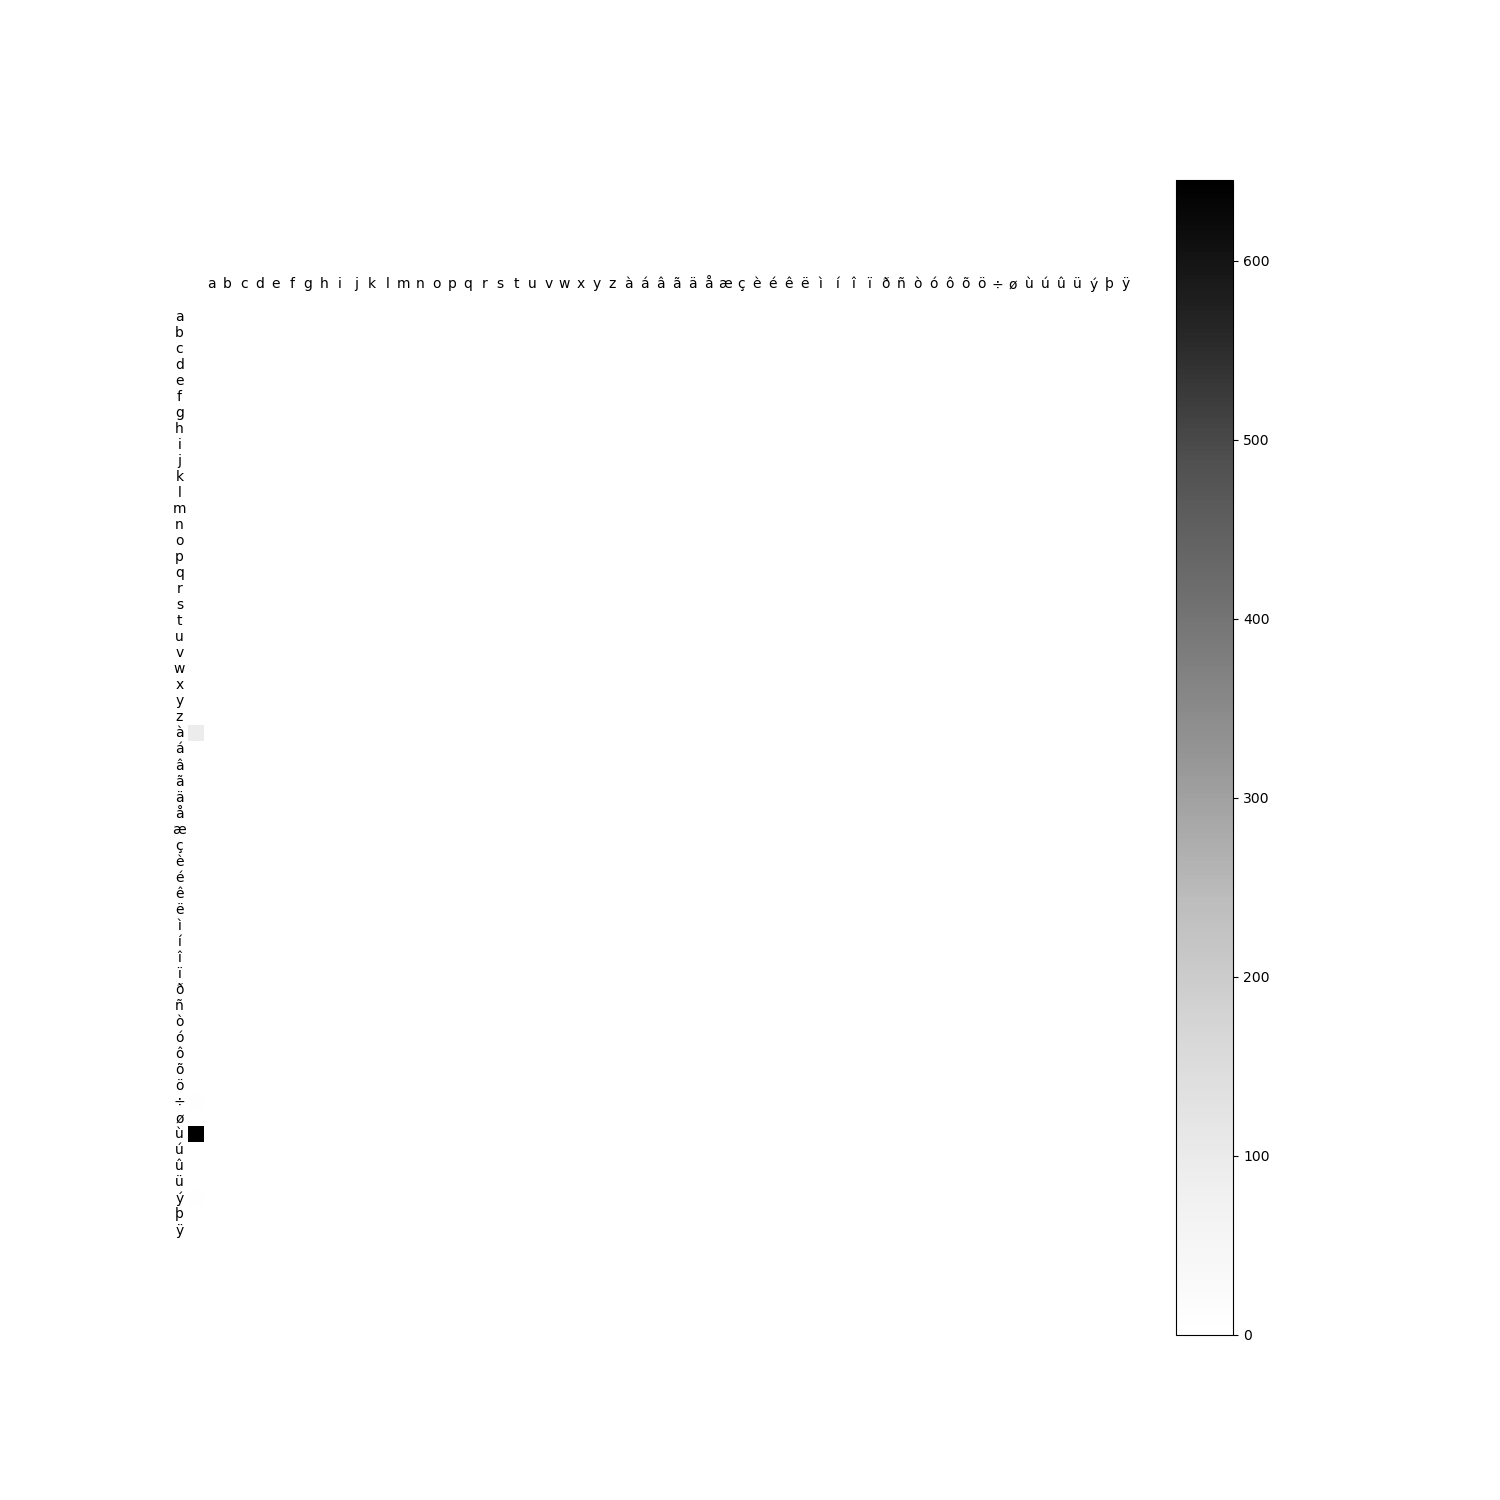
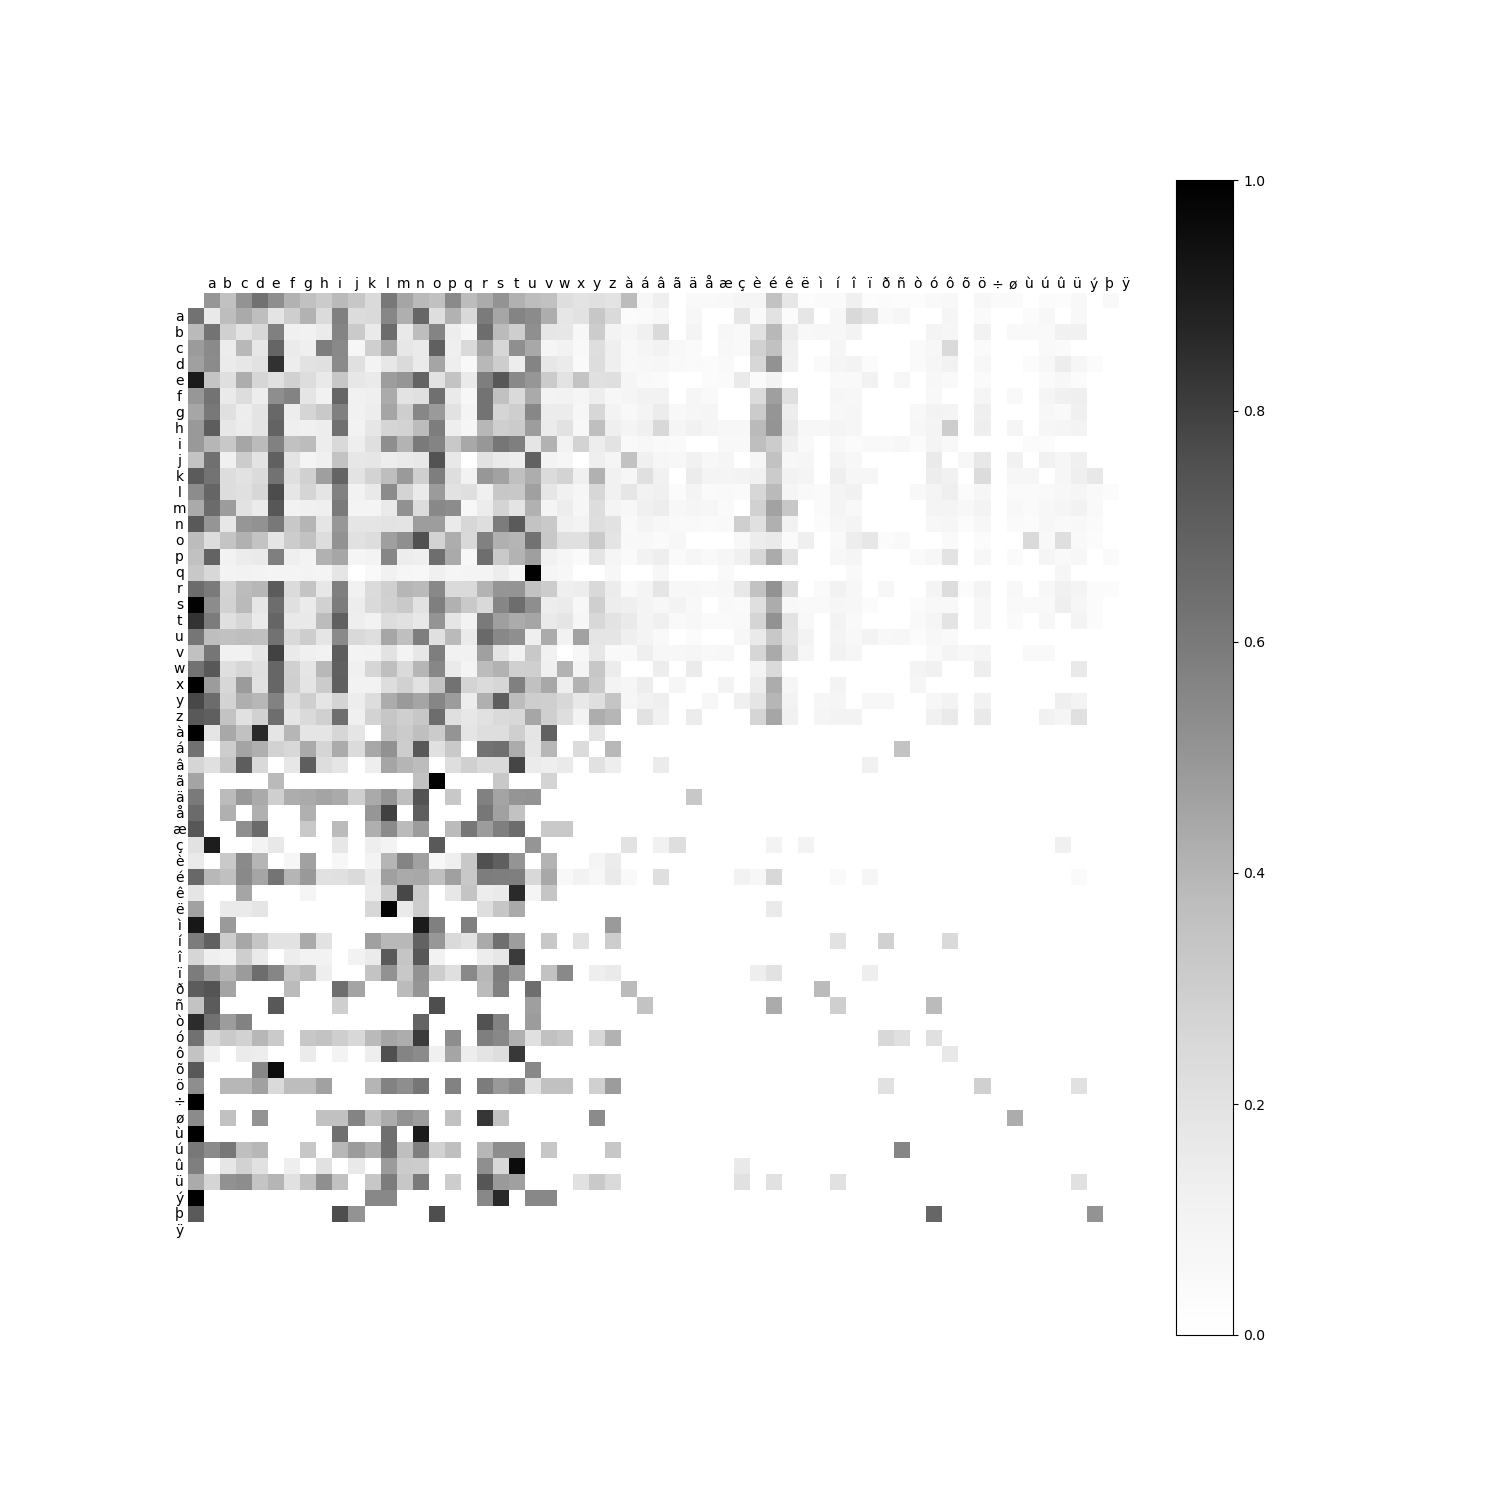
t

diff --git a/visualization/matrix_visualization.py b/visualization/matrix_visualization.py
@@ -21,7 +21,8 @@ cols_to_keep = np.array([32] + list(range(97, 123)) + list(range(224, 255)))
 
 # Use advanced indexing to keep the desired portion
 submatrix = matrix[np.ix_(rows_to_keep,cols_to_keep )] .copy()
-submatrix=(submatrix.astype('float'))
+submatrix=(submatrix.astype('float'))**0.25
+submatrix[submatrix>1]=1
 """colors = np.zeros((len(matrix), len(matrix[0]), 3))
 for i in range(len(matrix)):
     for j in range(len(matrix)):
